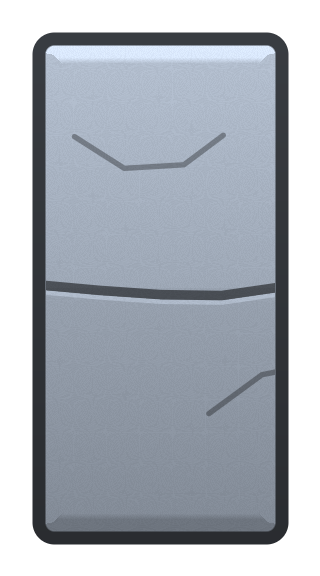
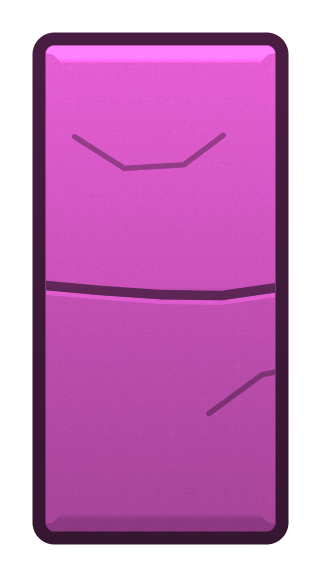
Make Classic Pip/Domino special: paired magentas + faint edge shine
The grey slate undersold the bricks (the 1x1 in particular is a prize to land).
Classic Pip is now a bright magenta and Domino a deeper violet-magenta - one
"special brick" family, visibly distinct from each other and from the seven
tetromino hues. Desert gets the same paired treatment in sandstone.

Adds a per-shape `edgeShine` to generate_piece_sprites.py: a faint extra
top-edge highlight applied only to Pip/Domino (other pieces unchanged).

diff --git a/Tools/generate_piece_sprites.py b/Tools/generate_piece_sprites.py
@@ -30,10 +30,11 @@ THEME_PRESETS = {
             "Z": (228, 88, 88),    # red
             "J": (95, 125, 225),   # blue
             "L": (238, 152, 66),   # orange
-            "Pip": (156, 166, 180),    # neutral slate - the special shrink brick
-            "Domino": (156, 166, 180), # same material as Pip
+            "Pip": (232, 100, 180),    # special brick - bright magenta
+            "Domino": (200, 82, 184),  # special brick - deeper violet-magenta (paired, visibly distinct from Pip)
         },
         "outline": 0.32,
+        "edgeShine": {"Pip": 0.15, "Domino": 0.15},  # faint extra top-edge highlight
     },
     # Sun-baked sand family: heavily desaturated, warm-cast, hue identities preserved
     # in muted form (cool I/J vs warm Z/L stay distinguishable). Softer outline to
@@ -47,10 +48,11 @@ THEME_PRESETS = {
             "Z": (209, 112, 88),   # terracotta
             "J": (152, 150, 172),  # slate sand (cool cast)
             "L": (223, 148, 82),   # burnt orange
-            "Pip": (200, 180, 150),    # warm sandstone - the special shrink brick
-            "Domino": (200, 180, 150), # same material as Pip
+            "Pip": (210, 186, 152),    # special brick - light sandstone
+            "Domino": (188, 164, 134), # special brick - deeper sandstone (paired, distinct from Pip)
         },
         "outline": 0.42,
+        "edgeShine": {"Pip": 0.15, "Domino": 0.15},  # faint extra top-edge highlight
     },
 }
 
@@ -190,6 +192,7 @@ def render(shape, preset, out_dir):
     sdf = make_sdf(RECTS[shape])
     base = preset["colors"][shape]
     outline_col = tuple(v * preset["outline"] for v in base)
+    edge_shine = preset.get("edgeShine", {}).get(shape, 0.0)  # extra top-edge highlight (special bricks)
     cell_bright = {cr: 1.0 + (rng.random() - 0.5) * 0.09 for cr in cells}
 
     seams, hairlines = seam_polylines(cells, rng)
@@ -216,7 +219,7 @@ def render(shape, preset, out_dir):
                 gy = sdf(x, y + 1.5) - sdf(x, y - 1.5)
                 band = min(1.0, (d + OUTLINE + BEVEL) / 6.0)
                 if gy < -0.4:
-                    f = 1.0 + 0.22 * band
+                    f = 1.0 + (0.22 + edge_shine) * band
                 elif gy > 0.4:
                     f = 1.0 - 0.16 * band
                 else:
